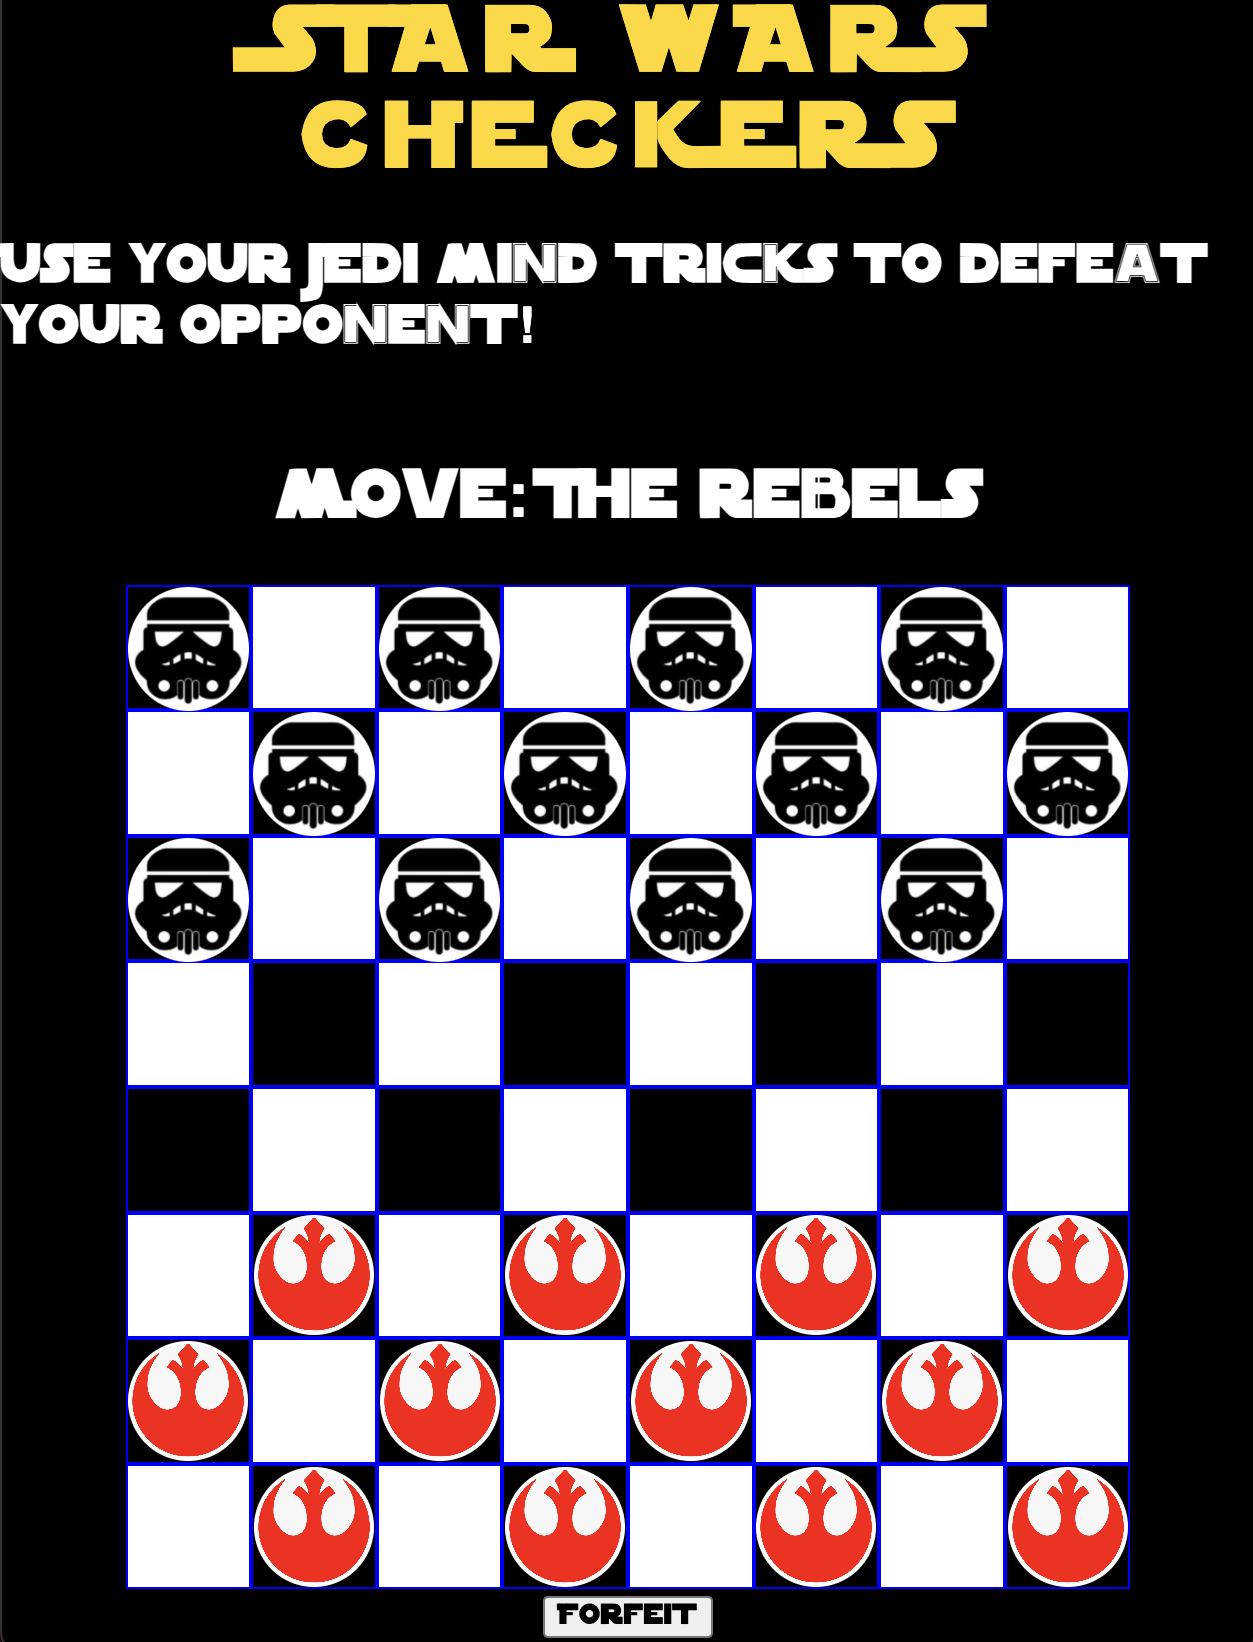
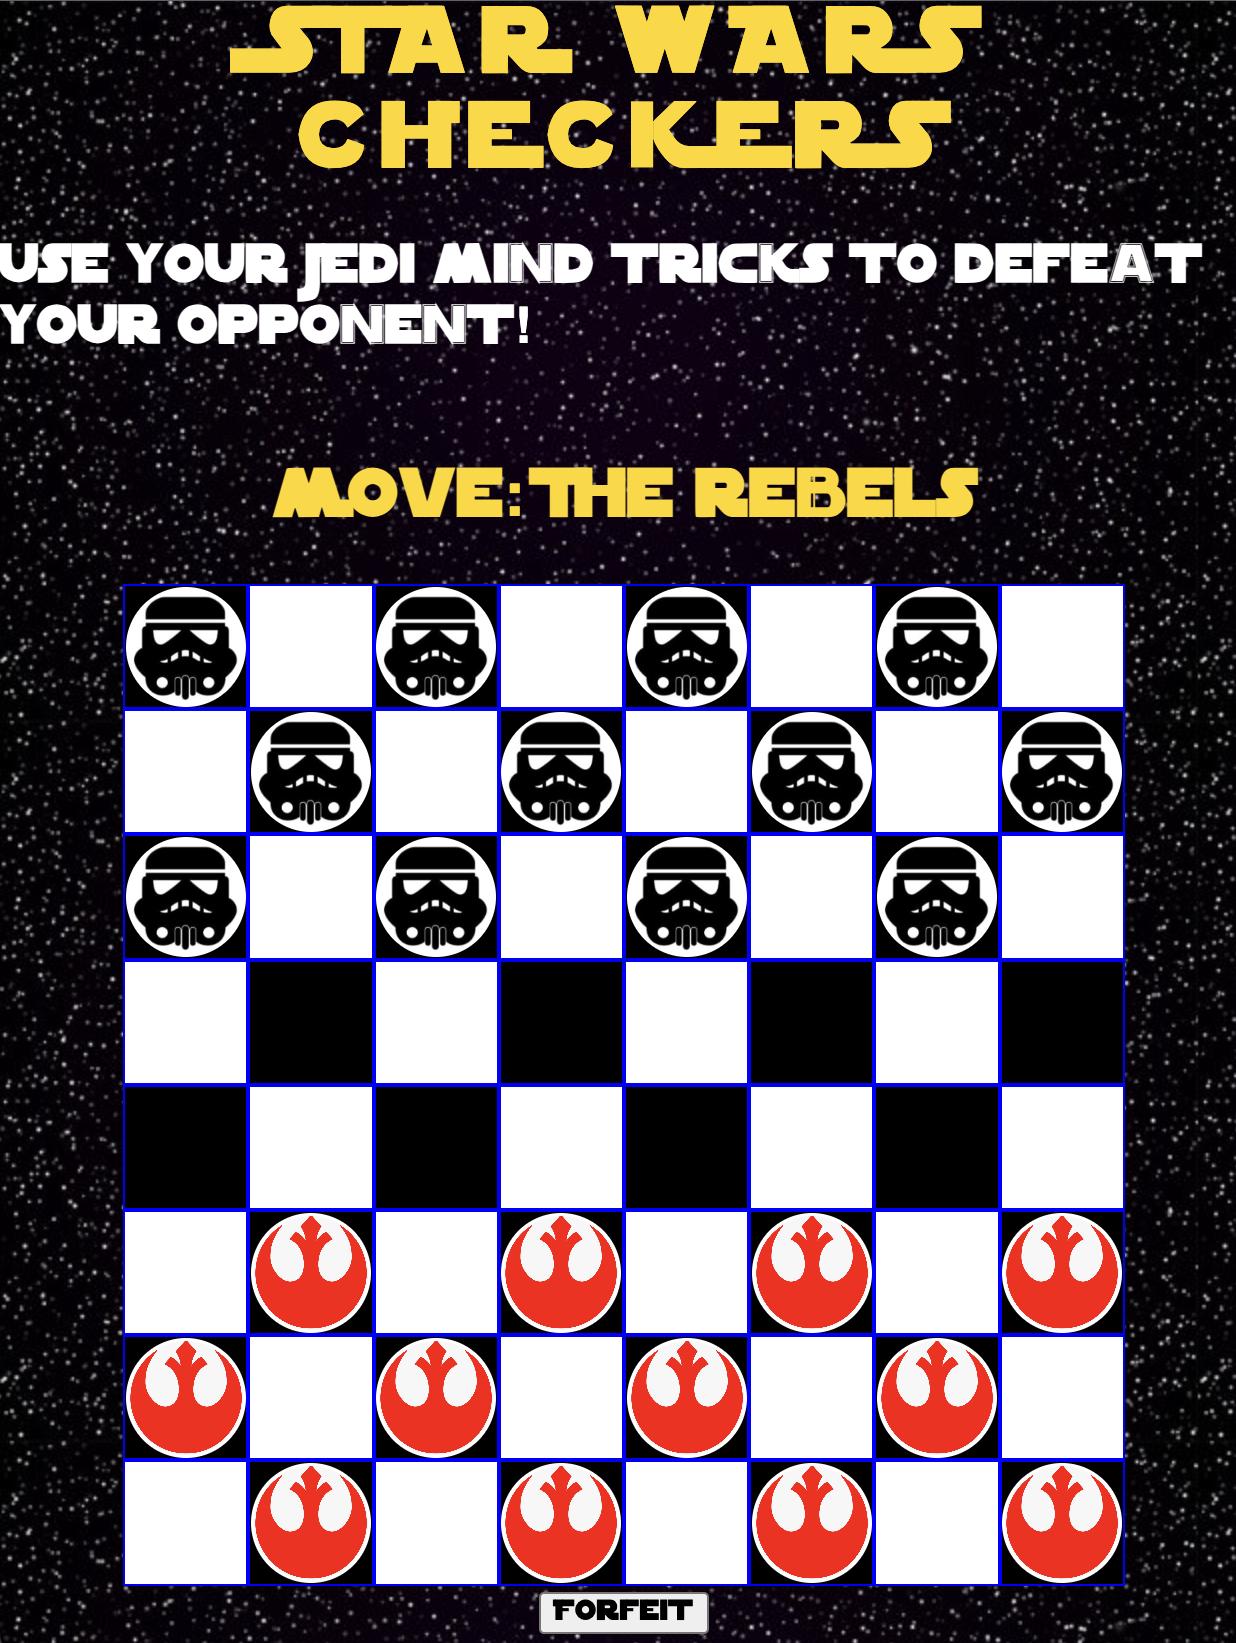
change background and pictures

Changed region(s): [[0.0, 0.0, 1.0, 1.0]]

diff --git a/main.js b/main.js
@@ -9,7 +9,6 @@ let turn
 let winner
 
 const messageEl = document.querySelector('h2')
-const playBtn = document.getElementById('playBtn')
 const forfeitBtn = document.getElementById('forfeitBtn')
 const spaces = document.querySelector('#board')
 let spacesArr = [...document.querySelectorAll('#board > div')]

diff --git a/main.css b/main.css
@@ -4,6 +4,7 @@
 }
 
 body {
+    background-image: url('images/stars.jpg');
     display: flex;
     align-items: center;
     flex-direction: column;
@@ -25,6 +26,7 @@ header {
 
 h2 {
     font-size: 5vmin;
+    color: gold;
 }
 
 h3 {

diff --git a/README.md b/README.md
@@ -5,8 +5,11 @@
 - Start of game
 ![Alt text](images/screenshot.png)
 
-- Forfeit functionality and king functionality
+- King functionality
 ![Alt text](images/screenshot2.png)
+
+- Winner!
+![Alt text](images/screenshot3.png)
 
 ## Technologies Used
 - HTML
